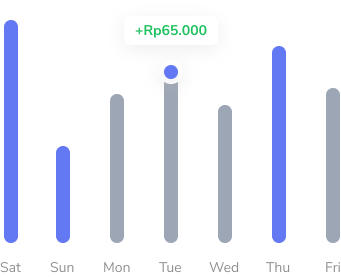
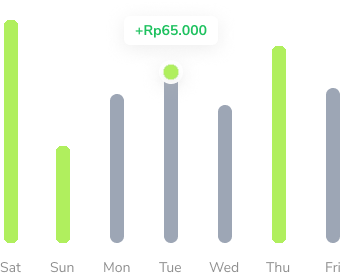
fixing file's name

diff --git a/src/App.js b/src/App.js
@@ -1,24 +1,24 @@
 import React from "react";
 import { BrowserRouter, Routes, Route } from "react-router-dom";
-import LandingPage from "../src/pages/Landingpage";
+import LandingPage from "./pages/LandingPage";
 import Home from "../src/pages/home/Home";
-import CreatePin from "../src/pages/auth/Createpin";
-import CreatePinSuccess from "../src/pages/auth/Createpinsuccess";
+import CreatePin from "./pages/auth/CreatePin";
+import CreatePinSuccess from "./pages/auth/CreatePinSuccess";
 import Login from "../src/pages/auth/Login";
-import ResetPassTypeEmail from "../src/pages/auth/Resetpasstypeemail";
-import ResetPassTypePass from "../src/pages/auth/Resetpasstypepass";
-import Signup from "../src/pages/auth/Signup";
+import ResetPassTypeEmail from "./pages/auth/ResetPassTypeEmail";
+import ResetPassTypePass from "./pages/auth/ResetPassTypePass";
+import Signup from "./pages/auth/SignUp";
 import Profile from "../src/pages/profile/Profile";
-import PersonalInfo from "../src/pages/profile/Personalinfo";
-import ManagePhoneNum from "../src/pages/profile/Managephonenum";
-import AddPhone from "../src/pages/profile/Addphone";
-import ChangePass from "../src/pages/profile/Changepass";
-import ChangePin from "../src/pages/profile/Changepin";
-import Topup from "../src/pages/topup/Topup";
+import PersonalInfo from "./pages/profile/PersonalInfo";
+import ManagePhoneNum from "./pages/profile/ManagePhoneNum";
+import AddPhone from "./pages/profile/AddPhone";
+import ChangePass from "./pages/profile/ChangePass";
+import ChangePin from "./pages/profile/ChangePin";
+import Topup from "./pages/topup/TopUp";
 import Transfer from "../src/pages/transfer/Transfer";
-import TransferSuccess from "../src/pages/transfer/Transfersuccess";
-import TransferFailed from "../src/pages/transfer/Transferfailed";
-import TransferInput from "../src/pages/transfer/Transferinput";
+import TransferSuccess from "./pages/transfer/TransferSuccess";
+import TransferFailed from "./pages/transfer/TransferFailed";
+import TransferInput from "./pages/transfer/TransferInput";
 import Confirm from "../src/pages/transfer/Confirm";
 import PrivateRoute from "./components/PrivateRoute";
 
@@ -33,8 +33,22 @@ function App() {
         <Route path="/Home" element={<Home />} />
 
         {/* Auth */}
-        <Route path="/Createpin" element={<CreatePin />} />
-        <Route path="/Createpin/Success" element={<CreatePinSuccess />} />
+        <Route
+          path="/Createpin"
+          element={
+            <PrivateRoute>
+              <CreatePin />
+            </PrivateRoute>
+          }
+        />
+        <Route
+          path="/Createpin/Success"
+          element={
+            <PrivateRoute>
+              <CreatePinSuccess />
+            </PrivateRoute>
+          }
+        />
         <Route path="/Login" element={<Login />} />
         <Route path="/Resetpass" element={<ResetPassTypeEmail />} />
         <Route path="/Resetpass/Typepass" element={<ResetPassTypePass />} />
@@ -81,7 +95,7 @@ function App() {
           path="/Changepass"
           element={
             <PrivateRoute>
-              <ChangePin />
+              <ChangePass />
             </PrivateRoute>
           }
         />

diff --git a/src/pages/Landingpage.js b/src/pages/Landingpage.js
@@ -21,13 +21,13 @@ import sherina from "../../src/assets/img/chaw.jpg";
 import jessica from "../../src/assets/img/mera.jpg";
 import robert from "../../src/assets/img/chandler.jpg";
 
-function Landingpage() {
+function LandingPage() {
   return (
     <>
       <header className="header-saqu">
         <nav className="nav">
           <div>
-            <span className="spansaqu">Saqu Pay</span>
+            <h2 className="blue">Saqu Pay</h2>
           </div>
           <div>
             <Link to="/Login" className="m-1">
@@ -198,7 +198,7 @@ function Landingpage() {
       </Carousel>
 
       <footer>
-        <div className="footer">
+        <div className="zwfooter">
           <h3>Saqu Pay</h3>
           <p className="sizing.footer">
             Simplify financial needs and saving much time in banking needs with
@@ -218,4 +218,4 @@ function Landingpage() {
   );
 }
 
-export default Landingpage;
+export default LandingPage;

diff --git a/src/pages/auth/Createpinsuccess.js b/src/pages/auth/Createpinsuccess.js
@@ -3,16 +3,16 @@ import { Button } from "react-bootstrap";
 import "bootstrap/dist/css/bootstrap.min.css";
 import "../../assets/CSS/createpin.css";
 import {} from "react-icons/fi";
-import Leftside from "../../components/AuthLeftSide.js";
+import LeftSide from "../../components/AuthLeftSide.js";
 import success from "../../assets/img/success.png";
 import { Link } from "react-router-dom";
 
-function Createpinsuccess() {
+function CreatePinSuccess() {
   return (
     <>
       <aside>
         <div className="parent-s">
-          <Leftside />
+          <LeftSide />
           <div className="right-side">
             <div>
               <img src={success} className="pb-5" alt="success logo" />
@@ -39,4 +39,4 @@ function Createpinsuccess() {
   );
 }
 
-export default Createpinsuccess;
+export default CreatePinSuccess;

diff --git a/src/pages/auth/Resetpasstypepass.js b/src/pages/auth/Resetpasstypepass.js
@@ -3,14 +3,15 @@ import { Button } from "react-bootstrap";
 import "bootstrap/dist/css/bootstrap.min.css";
 import "../../assets/CSS/resetpass.css";
 import { FiLock } from "react-icons/fi";
-import Leftside from "../../components/AuthLeftSide.js";
+import LeftSide from "../../components/AuthLeftSide.js";
 import { Link } from "react-router-dom";
-function ResetpassTypepass() {
+
+function ResetPassTypePass() {
   return (
     <>
       <aside>
         <div className="parent-s">
-          <Leftside />
+          <LeftSide />
           <div className="d-flex-column">
             <div className="right-side">
               <div>
@@ -61,4 +62,4 @@ function ResetpassTypepass() {
   );
 }
 
-export default ResetpassTypepass;
+export default ResetPassTypePass;

diff --git a/src/pages/auth/Resetpasstypeemail.js b/src/pages/auth/Resetpasstypeemail.js
@@ -3,15 +3,15 @@ import { Button } from "react-bootstrap";
 import "bootstrap/dist/css/bootstrap.min.css";
 import "../../assets/CSS/resetpass.css";
 import { FiMail } from "react-icons/fi";
-import Leftside from "../../components/AuthLeftSide.js";
+import LeftSide from "../../components/AuthLeftSide.js";
 import { Link } from "react-router-dom";
 
-function ResetpassTypeemail() {
+function ResetPassTypeEmail() {
   return (
     <>
       <aside>
         <div className="parent-s">
-          <Leftside />
+          <LeftSide />
           <div className="right-side">
             <div>
               <h4>
@@ -52,4 +52,4 @@ function ResetpassTypeemail() {
   );
 }
 
-export default ResetpassTypeemail;
+export default ResetPassTypeEmail;

diff --git a/src/pages/auth/Createpin.js b/src/pages/auth/Createpin.js
@@ -3,15 +3,15 @@ import { Button } from "react-bootstrap";
 import "bootstrap/dist/css/bootstrap.min.css";
 import "../../assets/CSS/createpin.css";
 import {} from "react-icons/fi";
-import Leftside from "../../components/AuthLeftSide.js";
+import LeftSide from "../../components/AuthLeftSide.js";
 import { Link } from "react-router-dom";
 
-function Createpin() {
+function CreatePin() {
   return (
     <>
       <aside>
         <div className="parent-s">
-          <Leftside />
+          <LeftSide />
           <div className="right-side">
             <div>
               <h4>
@@ -66,4 +66,4 @@ function Createpin() {
   );
 }
 
-export default Createpin;
+export default CreatePin;

diff --git a/src/pages/auth/Signup.js b/src/pages/auth/Signup.js
@@ -1,16 +1,16 @@
 import React from "react";
-import Leftside from "../../components/AuthLeftSide.js";
+import LeftSide from "../../components/AuthLeftSide.js";
 import "bootstrap/dist/css/bootstrap.min.css";
 import "../../assets/CSS/signup.css";
 import { FiUser, FiMail, FiLock } from "react-icons/fi";
 import { Link } from "react-router-dom";
 
-function Signup() {
+function SignUp() {
   return (
     <>
       <aside>
         <div class="parent-s">
-          <Leftside />
+          <LeftSide />
           <div className="right-side">
             <div>
               <h4>
@@ -71,4 +71,4 @@ function Signup() {
   );
 }
 
-export default Signup;
+export default SignUp;

diff --git a/src/components/Footer.js b/src/components/Footer.js
@@ -4,11 +4,11 @@ import "../assets/CSS/footer.css";
 function Footer() {
   return (
     <>
-      <footer className="wrap-end mt-5 stylefoot">
-        <div className="d-flex justify-content-between wrap-footer px-5 mx-0 mx-md-5">
+      <footer className="mt-5 stylefoot">
+        <div className="d-flex justify-content-between px-5 mx-0 mx-md-5">
           <p>2022 Saqu Pay. All right reserved.</p>
           <div className="d-flex justify-content-end">
-            <p className="me-4">+62 5637 8882 9901</p>
+            <p className="">+62 5637 8882 9901</p>
             <p>contact@saqupay.com</p>
           </div>
         </div>

diff --git a/src/assets/CSS/home.css b/src/assets/CSS/home.css
@@ -12,7 +12,7 @@ body {
   font-weight: 700;
   font-size: 30px;
 
-  color: #6379f4;
+  color: #b0ef5e;
 }
 
 .zw-nav {
@@ -60,7 +60,7 @@ body {
   color: black;
 }
 .zwlink:hover {
-  color: blue;
+  color: #b0ef5e;
 }
 
 .zw-header {
@@ -68,7 +68,7 @@ body {
   /* height: 100%; */
   color: white;
   padding: 2%;
-  background: #6379f4;
+  background: #b0ef5e;
   box-shadow: 0px 4px 20px rgba(0, 0, 0, 0.05);
   border-radius: 25px;
 }
@@ -82,5 +82,6 @@ body {
   height: 100%;
   background: #ffffff;
   box-shadow: 0px 4px 20px rgba(0, 0, 0, 0.05);
+
   border-radius: 25px;
 }

diff --git a/src/pages/transfer/Transfersuccess.js b/src/pages/transfer/Transfersuccess.js
@@ -7,7 +7,7 @@ import { BsCheckCircleFill, BsDownload, BsShare } from "react-icons/bs";
 import robert from "../../assets/img/robert.png";
 import { Link } from "react-router-dom";
 
-function Transfersuccess() {
+function TransferSuccess() {
   return (
     <>
       <Navbar />
@@ -112,4 +112,4 @@ function Transfersuccess() {
   );
 }
 
-export default Transfersuccess;
+export default TransferSuccess;

diff --git a/src/pages/transfer/Transferfailed.js b/src/pages/transfer/Transferfailed.js
@@ -7,7 +7,7 @@ import { BsFillXCircleFill } from "react-icons/bs";
 import robert from "../../assets/img/robert.png";
 import { Link } from "react-router-dom";
 
-function Transferfailed() {
+function TransferFailed() {
   return (
     <>
       <Navbar />
@@ -97,4 +97,4 @@ function Transferfailed() {
   );
 }
 
-export default Transferfailed;
+export default TransferFailed;

diff --git a/src/pages/profile/Personalinfo.js b/src/pages/profile/Personalinfo.js
@@ -5,7 +5,7 @@ import { Container, Row, Col } from "react-bootstrap";
 import Menu from "../../components/Menu.js";
 import { Link } from "react-router-dom";
 
-function Personalinfo() {
+function PersonalInfo() {
   return (
     <>
       <Navbar />
@@ -74,4 +74,4 @@ function Personalinfo() {
   );
 }
 
-export default Personalinfo;
+export default PersonalInfo;
